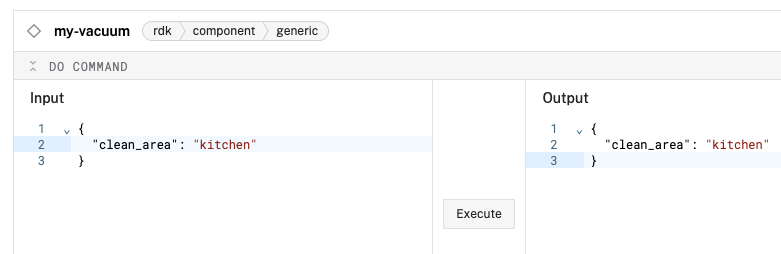
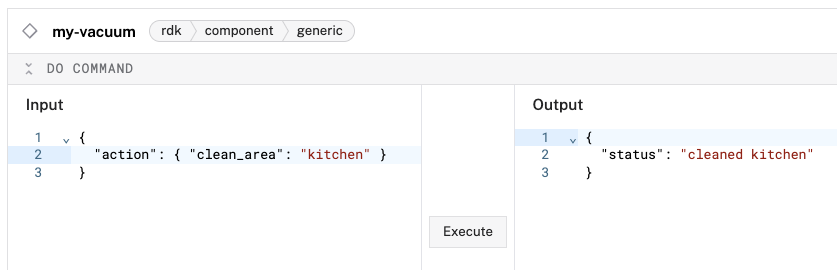
Don't use empty values

diff --git a/docs/dev/reference/sdks/docommand.md b/docs/dev/reference/sdks/docommand.md
@@ -47,17 +47,23 @@ async def do_command(
     timeout: Optional[float] = None,
     **kwargs
 ) -> Mapping[str, ValueTypes]:
-    if command.keys() == {"dock"}:
-        await self.run_docking_sequence()
-        return {"dock": True}
-    if command.keys() == {"clean_area"}:
-        area = command["clean_area"]
-        if area in ["kitchen", "living_room"]:
-            await self.clean_area(area)
+    for name, value in command.items():
+        if name == "action":
+            action = value
+            if action == "dock":
+                await self.run_docking_sequence()
+                return {"status": "docked"}
+            elif isinstance(action, dict) and "clean_area" in action:
+                area = action["clean_area"]
+                if area in ["kitchen", "living_room"]:
+                    await self.clean_area(area)
+                    return {"status": f"cleaned {area}"}
+                else:
+                    raise ValueError(f"Unknown area: {area}")
+            else:
+                raise ValueError(f"Unknown action: {action}")
         else:
-            raise ValueError(f"Unknown area: {area}")
-        return {"clean_area": area}
-    return {"error": f"Unknown command: {command}"}
+            raise ValueError(f"Unknown command: {command}")
 
 # TODO: Implement run_docking_sequence()
 # TODO: Implement clean_area()
@@ -68,24 +74,32 @@ async def do_command(
 
 ```go {class="line-numbers linkable-line-numbers"}
 func (s *Vacuum) DoCommand(ctx context.Context, cmd map[string]interface{}) (map[string]interface{}, error) {
-  if len(cmd) == 1 {
-    if _, ok := cmd["dock"]; ok {
+  action, ok := cmd["action"]
+  if !ok {
+    return nil, fmt.Errorf("missing 'action' key in command")
+  }
+
+  switch action := action.(type) {
+  case string:
+    if action == "dock" {
       if err := s.runDockingSequence(ctx); err != nil {
         return nil, err
       }
-      return map[string]interface{}{"dock": true}, nil
+      return map[string]interface{}{"status": "docked"}, nil
     }
-    if area, ok := cmd["clean_area"].(string); ok {
-      if area == "kitchen" || area == "living_room" {
-        if err := s.cleanArea(ctx, area); err != nil {
+  case map[string]interface{}:
+    if cleanArea, ok := action["clean_area"].(string); ok {
+      if cleanArea == "kitchen" || cleanArea == "living_room" {
+        if err := s.cleanArea(ctx, cleanArea); err != nil {
           return nil, err
         }
-        return map[string]interface{}{"clean_area": area}, nil
+        return map[string]interface{}{"status": fmt.Sprintf("cleaned %s", cleanArea)}, nil
       }
-      return nil, fmt.Errorf("unknown area: %s", area)
+      return nil, fmt.Errorf("unknown area: %s", cleanArea)
     }
   }
-  return map[string]interface{}{"error": fmt.Sprintf("unknown command: %v", cmd)}, nil
+
+  return nil, fmt.Errorf("unknown action: %v", action)
 }
 
 // TODO: Implement runDockingSequence()
@@ -103,36 +117,28 @@ Continuing with the vacuum cleaner example, you could use `DoCommand` in your co
 {{% tab name="Python" %}}
 
 ```python {class="line-numbers linkable-line-numbers"}
-# Since the docking DoCommand implementation uses the key but not a value,
-# you can use either of the following:
-await vacuum.do_command({"dock": True})
-# OR
-await vacuum.do_command({"dock": ""})
+# Dock the vacuum cleaner
+await vacuum.do_command({"action": "dock"})
 
-# The cleaning DoCommand implementation uses the key and a value,
-# so you must use the following:
-await vacuum.do_command({"clean_area": "kitchen"})
+# Clean the kitchen
+await vacuum.do_command({"action": {"clean_area": "kitchen"}})
 ```
 
 {{% /tab %}}
 {{% tab name="Go" %}}
 
 ```go {class="line-numbers linkable-line-numbers"}
-// Since the docking DoCommand implementation uses the key but not a value,
-// you can use either of the following:
-_, err := vacuum.DoCommand(context.Background(), map[string]interface{}{"dock": true})
-if err != nil {
-  logger.Error(fmt.Errorf("failed to dock vacuum: %w", err))
-}
-// OR
-_, err = vacuum.DoCommand(context.Background(), map[string]interface{}{"dock": ""})
+// Dock the vacuum cleaner
+_, err := vacuum.DoCommand(context.Background(), map[string]interface{}{
+    "action": "dock"})
 if err != nil {
   logger.Error(fmt.Errorf("failed to dock vacuum: %w", err))
 }
 
-// The cleaning DoCommand implementation uses the key and a value,
-// so you must use the following:
-_, err = vacuum.DoCommand(context.Background(), map[string]interface{}{"clean_area": "kitchen"})
+// Clean the kitchen
+_, err = vacuum.DoCommand(context.Background(), map[string]interface{}{
+    "action": map[string]interface{}{"clean_area": "kitchen"},
+})
 if err != nil {
   logger.Error(fmt.Errorf("failed to clean area: %w", err))
 }
@@ -151,7 +157,7 @@ You can use `DoCommand` from the Viam app:
 
    ```json {class="line-numbers linkable-line-numbers"}
    {
-     "clean_area": "kitchen"
+     "action": { "clean_area": "kitchen" }
    }
    ```
 
